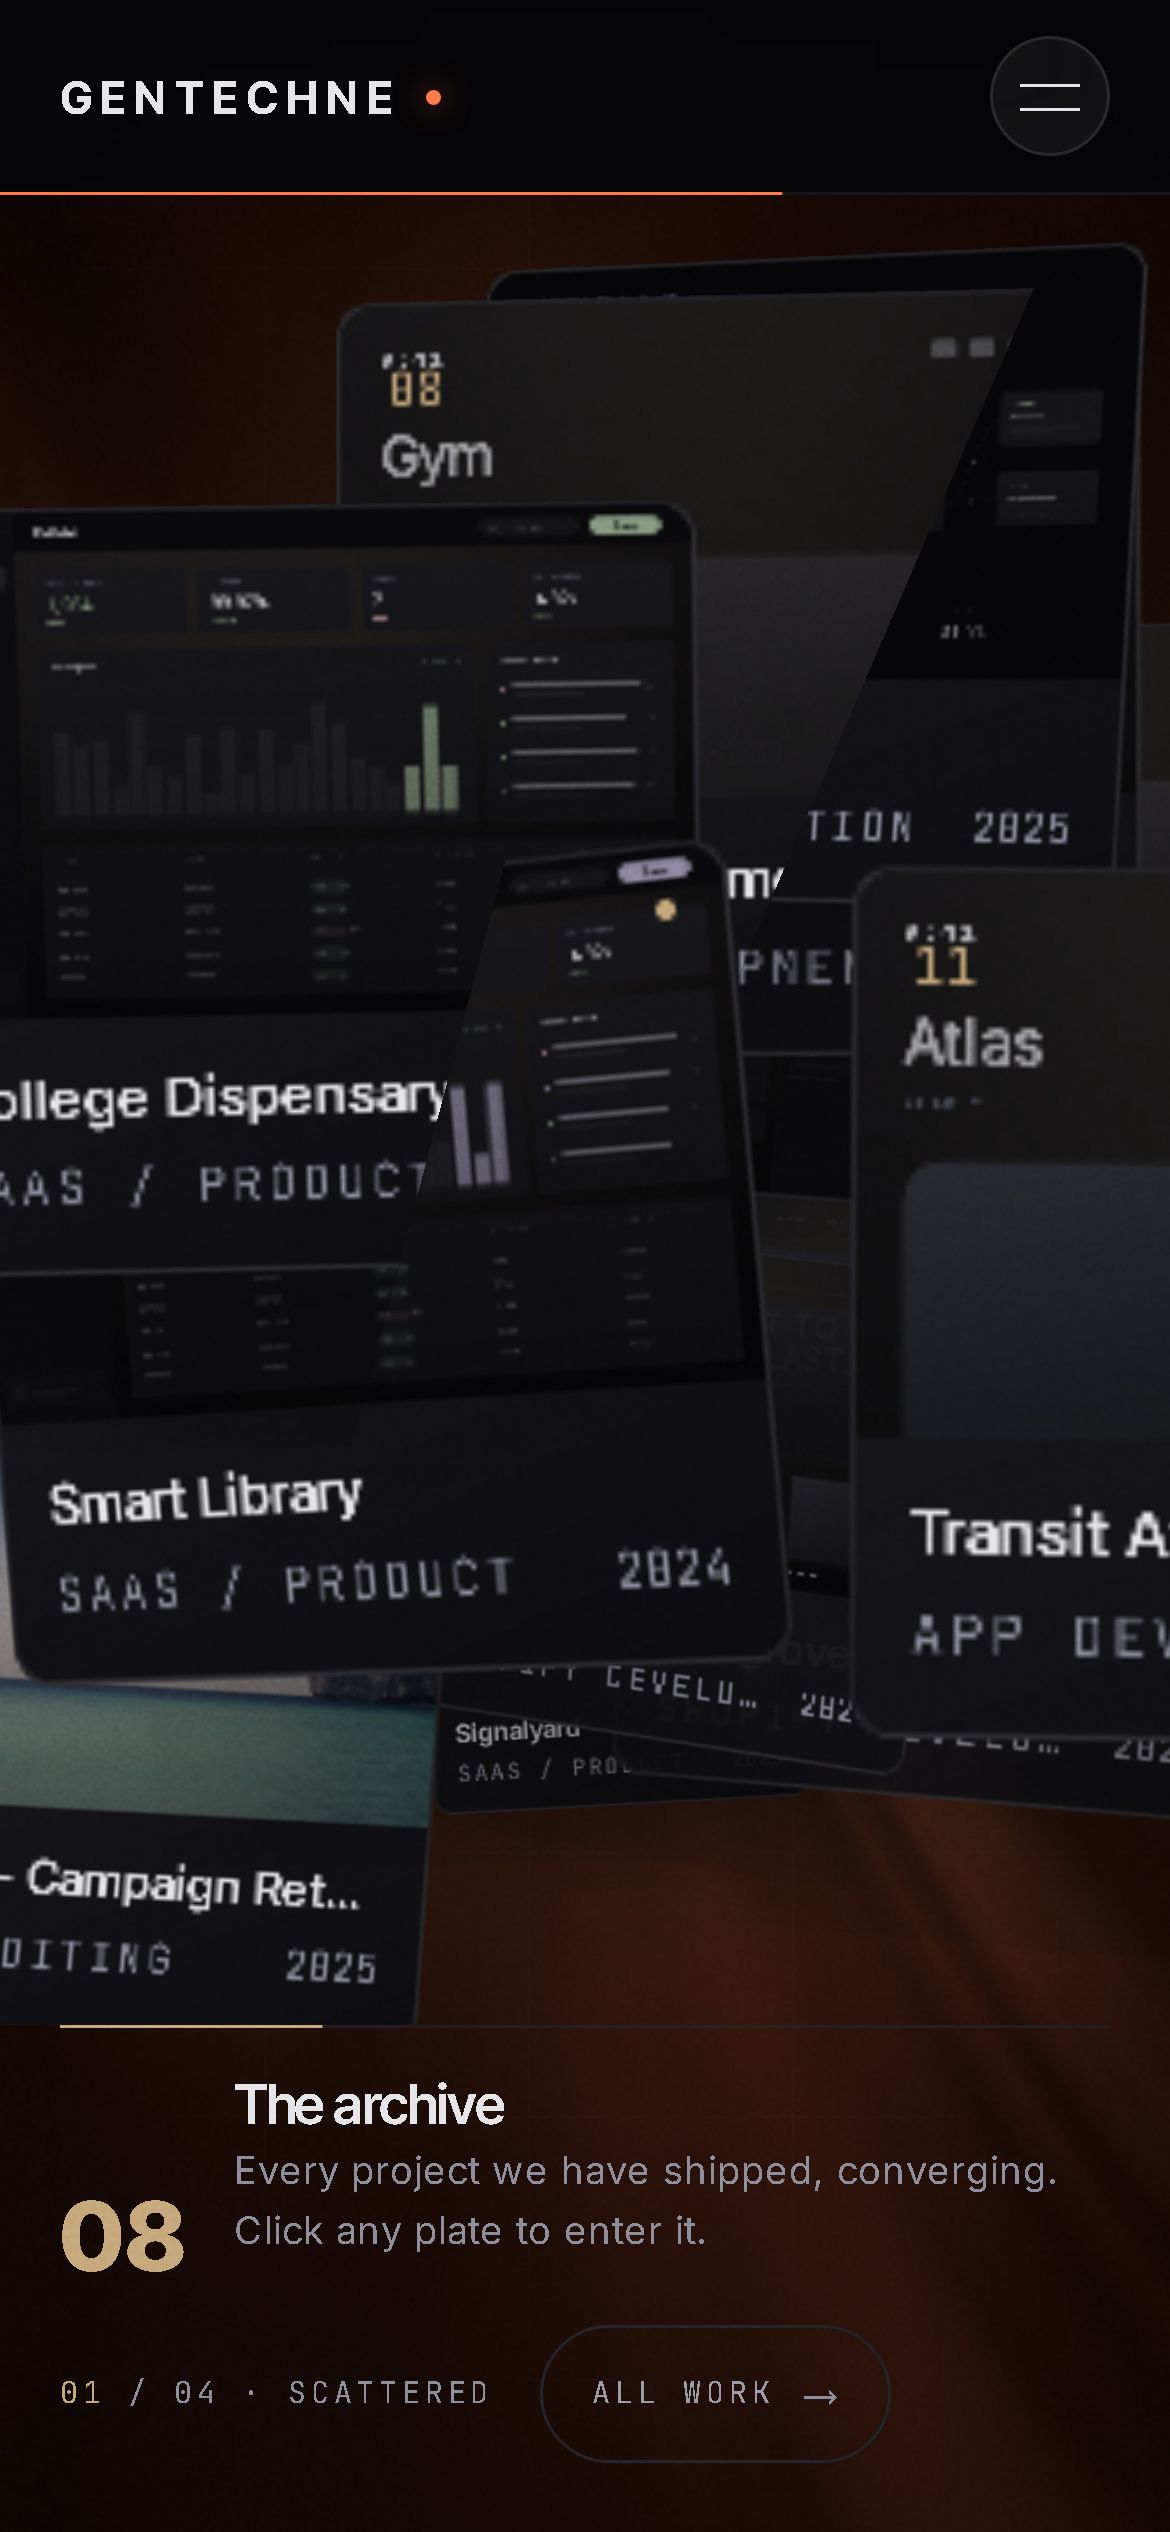
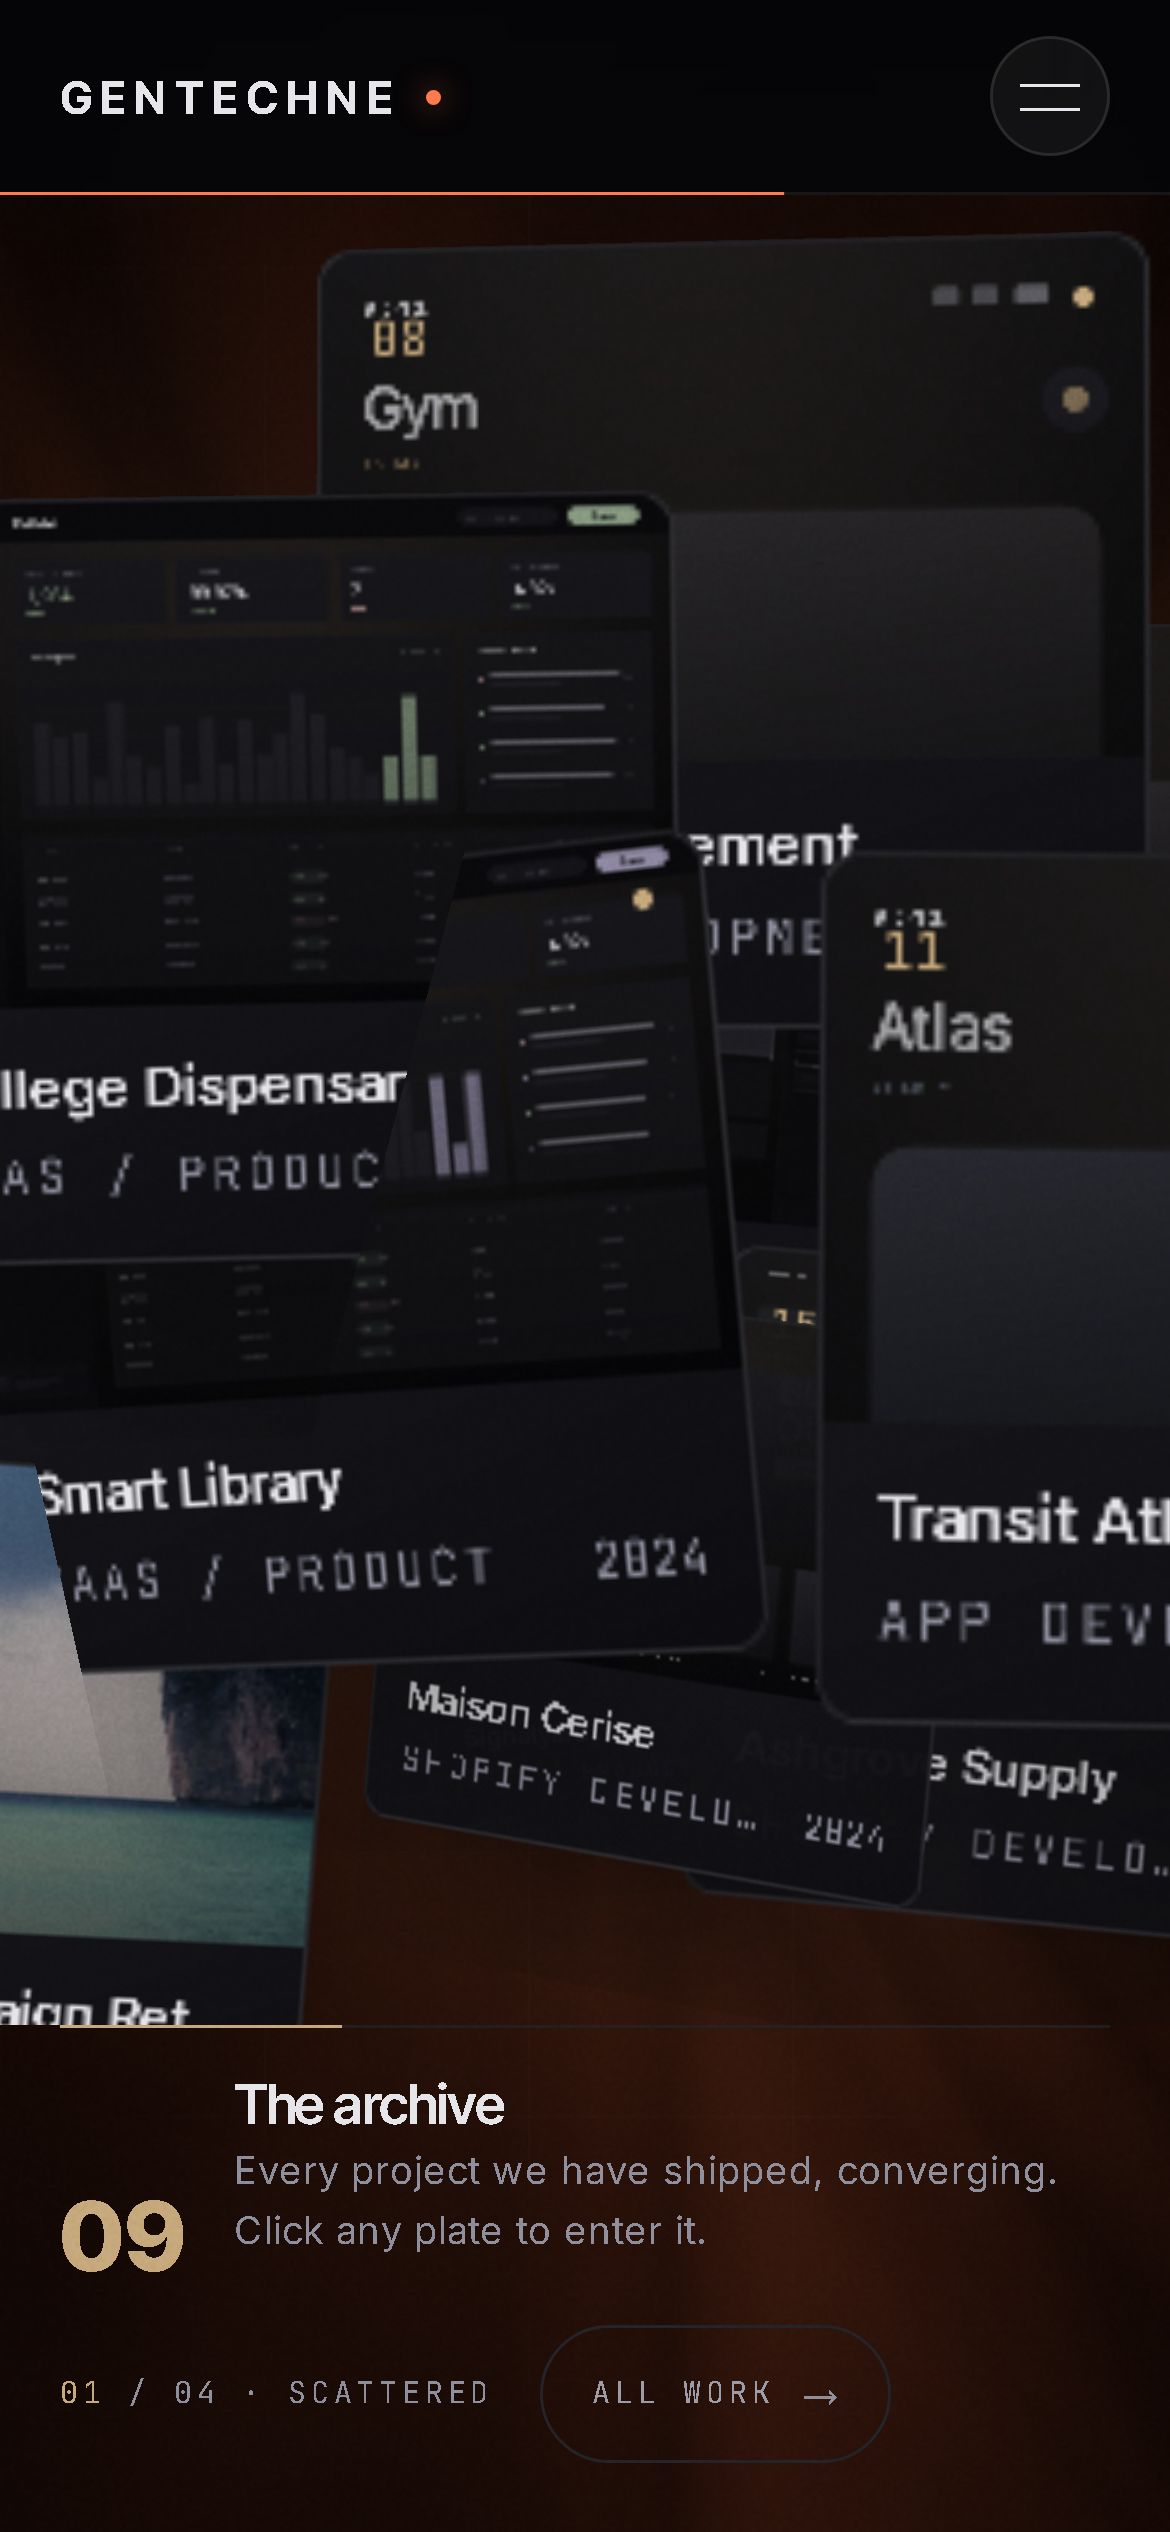
all done

diff --git a/frontend/src/components/showcases/SaaSShowcase.jsx b/frontend/src/components/showcases/SaaSShowcase.jsx
@@ -6,6 +6,7 @@ import { ProjectTag, StaticShowcase } from './ui/ShowcaseParts'
 import { getService } from '../../data/services'
 import { projectsByService } from '../../data/projects'
 import { useProjectEntry } from '../projects/ProjectEntryContext'
+import { useExperience } from '../../context/ExperienceContext'
 import { seeded } from '../../lib/utils'
 
 const service = getService('saas')
@@ -180,20 +181,25 @@ export function SaaSShowcase() {
       )
   }, [])
 
-  const tableRows = [
+  const { isMobile } = useExperience()
+
+  const ALL_ROWS = [
     ['UNIT-1842', 'EU-WEST', 'ONLINE', '24ms'],
     ['UNIT-2207', 'US-EAST', 'ONLINE', '38ms'],
     ['UNIT-0914', 'AP-SOUTH', 'DEGRADED', '182ms'],
     ['UNIT-3361', 'EU-NORTH', 'ONLINE', '19ms'],
     ['UNIT-1178', 'US-WEST', 'ONLINE', '46ms'],
   ]
+  /* The phone stage cannot seat all five. The first three still carry the
+     point — units being watched, one of them degraded — and the two that only
+     repeat ONLINE are the cheapest thing in the panel to give up. */
+  const tableRows = isMobile ? ALL_ROWS.slice(0, 3) : ALL_ROWS
 
   return (
     <ShowcaseFrame
       service={service}
       id={service.sectionId}
       beats={5}
-      mobileZoom={0.84}
       build={build}
       fallback={<StaticShowcase project={project} service={service} />}
     >
@@ -204,15 +210,15 @@ export function SaaSShowcase() {
         style={{ background: `radial-gradient(ellipse, ${service.accent}22 0%, rgba(5,5,7,0) 70%)` }}
       />
 
-      <div className="relative z-10 flex flex-col items-center gap-6 preserve-3d">
+      <div className="relative z-10 flex flex-col items-center gap-3 preserve-3d md:gap-6">
         <div ref={dashRef} className="relative preserve-3d will-change-transform">
           <PanelFrame label="SIGNALYARD — FLEET OBSERVABILITY" accent={service.accent} className="w-[min(92vw,880px)]">
-            <div className="relative p-3 md:p-5">
+            <div className="relative p-2 md:p-5">
               {/* Stat row */}
-              <div data-saas-recede className="mb-3 grid grid-cols-2 gap-2 md:mb-4 md:grid-cols-4 md:gap-3">
+              <div data-saas-recede className="mb-1.5 grid grid-cols-2 gap-1.5 md:mb-4 md:grid-cols-4 md:gap-3">
                 {STATS.map((s) => (
-                  <div key={s.key} className="surface rounded-md p-2.5 md:p-3.5">
-                    <span className="block font-mono text-[7px] max-md:text-[12px] uppercase tracking-[0.15em] text-mist md:text-[8px]">
+                  <div key={s.key} className="surface rounded-md p-2 md:p-3.5">
+                    <span className="block font-mono text-[7px] max-md:text-[10px] uppercase tracking-[0.15em] text-mist md:text-[8px]">
                       {s.label}
                     </span>
                     <span
@@ -226,7 +232,7 @@ export function SaaSShowcase() {
                       0
                     </span>
                     <span
-                      className="mt-1 block font-mono text-[7.5px] max-md:text-[12px] md:text-[8.5px]"
+                      className="mt-1 block font-mono text-[7.5px] max-md:text-[10px] md:text-[8.5px]"
                       style={{ color: s.delta.startsWith('-') ? '#C8A0A0' : '#A8C0A0' }}
                     >
                       {s.delta}
@@ -235,23 +241,23 @@ export function SaaSShowcase() {
                 ))}
               </div>
 
-              <div className="grid gap-2 md:grid-cols-3 md:gap-3">
+              <div className="grid gap-1.5 md:grid-cols-3 md:gap-3">
                 {/* Main chart */}
-                <div data-saas-recede className="surface col-span-2 rounded-md p-2.5 md:p-3.5">
+                <div data-saas-recede className="surface col-span-2 rounded-md p-2 md:p-3.5">
                   <div className="mb-2 flex items-center justify-between">
                     <span className="font-display text-[10px] font-semibold text-silver md:text-[12px]">
                       Throughput
                     </span>
                     <span className="flex items-center gap-1.5">
                       <span className="h-1 w-1 rounded-full bg-[#A8C0A0] anim-pulse" />
-                      <span className="font-mono text-[7px] max-md:text-[12px] uppercase tracking-[0.14em] text-mist md:text-[8px]">
+                      <span className="font-mono text-[7px] max-md:text-[10px] uppercase tracking-[0.14em] text-mist md:text-[8px]">
                         REALTIME
                       </span>
                     </span>
                   </div>
                   <svg
                     viewBox={`0 0 ${series.W} ${series.H}`}
-                    className="h-20 w-full md:h-28"
+                    className="h-[3.75rem] w-full md:h-28"
                     preserveAspectRatio="none"
                     aria-hidden="true"
                   >
@@ -302,11 +308,11 @@ export function SaaSShowcase() {
                 </div>
 
                 {/* Distribution + feed */}
-                <div data-saas-recede className="surface flex flex-col rounded-md p-2.5 md:p-3.5">
+                <div data-saas-recede className="surface flex flex-col rounded-md p-2 md:p-3.5">
                   <span className="mb-2 font-display text-[10px] font-semibold text-silver md:text-[12px]">
                     Distribution
                   </span>
-                  <div className="relative mx-auto h-16 w-16 md:h-20 md:w-20">
+                  <div className="relative mx-auto h-14 w-14 md:h-20 md:w-20">
                     <svg viewBox="0 0 240 240" className="h-full w-full -rotate-90" aria-hidden="true">
                       <circle cx="120" cy="120" r="110" fill="none" stroke="#232329" strokeWidth="22" />
                       <circle
@@ -321,7 +327,7 @@ export function SaaSShowcase() {
                         strokeLinecap="round"
                       />
                     </svg>
-                    <span className="absolute inset-0 grid place-items-center font-mono text-[9px] max-md:text-[12px] text-bone md:text-[11px]">
+                    <span className="absolute inset-0 grid place-items-center font-mono text-[9px] max-md:text-[10px] text-bone md:text-[11px]">
                       68%
                     </span>
                   </div>
@@ -332,10 +338,10 @@ export function SaaSShowcase() {
                           className="h-1.5 w-1.5 rounded-full"
                           style={{ backgroundColor: [service.accent, '#C8A0A0', '#35353E'][i] }}
                         />
-                        <span className="font-mono text-[7.5px] max-md:text-[12px] uppercase tracking-[0.12em] text-mist md:text-[8.5px]">
+                        <span className="font-mono text-[7.5px] max-md:text-[10px] uppercase tracking-[0.12em] text-mist md:text-[8.5px]">
                           {t}
                         </span>
-                        <span className="ml-auto font-mono text-[8px] max-md:text-[12px] tabular-nums text-silver md:text-[9px]">
+                        <span className="ml-auto font-mono text-[8px] max-md:text-[10px] tabular-nums text-silver md:text-[9px]">
                           {['68%', '24%', '8%'][i]}
                         </span>
                       </li>
@@ -345,10 +351,10 @@ export function SaaSShowcase() {
               </div>
 
               {/* Table */}
-              <div data-saas-recede className="surface mt-2 overflow-hidden rounded-md md:mt-3">
+              <div data-saas-recede className="surface mt-1 overflow-hidden rounded-md md:mt-3">
                 <div className="grid grid-cols-4 gap-2 border-b border-smoke/70 px-2.5 py-1.5 md:px-3.5 md:py-2">
                   {['UNIT', 'REGION', 'STATUS', 'LATENCY'].map((h) => (
-                    <span key={h} className="font-mono text-[6.5px] max-md:text-[12px] uppercase tracking-[0.14em] text-mist md:text-[7.5px]">
+                    <span key={h} className="font-mono text-[6.5px] max-md:text-[10px] uppercase tracking-[0.14em] text-mist md:text-[7.5px]">
                       {h}
                     </span>
                   ))}
@@ -359,10 +365,10 @@ export function SaaSShowcase() {
                     ref={(el) => setRow(el, i)}
                     className="grid grid-cols-4 items-center gap-2 border-b border-smoke/40 px-2.5 py-1.5 last:border-0 will-change-transform md:px-3.5 md:py-2"
                   >
-                    <span className="font-mono text-[7.5px] max-md:text-[12px] text-silver md:text-[9px]">{r[0]}</span>
-                    <span className="font-mono text-[7.5px] max-md:text-[12px] text-mist md:text-[9px]">{r[1]}</span>
+                    <span className="font-mono text-[7.5px] max-md:text-[10px] text-silver md:text-[9px]">{r[0]}</span>
+                    <span className="font-mono text-[7.5px] max-md:text-[10px] text-mist md:text-[9px]">{r[1]}</span>
                     <span
-                      className="w-fit rounded-full px-1.5 py-0.5 font-mono text-[6.5px] max-md:text-[12px] tracking-[0.1em] md:text-[7.5px]"
+                      className="w-fit rounded-full px-1.5 py-0.5 font-mono text-[6.5px] max-md:text-[10px] tracking-[0.1em] md:text-[7.5px]"
                       style={{
                         color: r[2] === 'ONLINE' ? '#A8C0A0' : '#C8A0A0',
                         backgroundColor: r[2] === 'ONLINE' ? 'rgba(168,192,160,0.14)' : 'rgba(200,160,160,0.16)',
@@ -370,7 +376,7 @@ export function SaaSShowcase() {
                     >
                       {r[2]}
                     </span>
-                    <span className="font-mono text-[7.5px] max-md:text-[12px] tabular-nums text-silver md:text-[9px]">{r[3]}</span>
+                    <span className="font-mono text-[7.5px] max-md:text-[10px] tabular-nums text-silver md:text-[9px]">{r[3]}</span>
                   </div>
                 ))}
               </div>
@@ -386,10 +392,10 @@ export function SaaSShowcase() {
                 }}
               >
                 <div data-saas-focus-row className="flex items-center justify-between">
-                  <span className="font-mono text-[8px] max-md:text-[12px] uppercase tracking-[0.16em]" style={{ color: service.accent }}>
+                  <span className="font-mono text-[8px] max-md:text-[10px] uppercase tracking-[0.16em]" style={{ color: service.accent }}>
                     UNIT-0914 / AP-SOUTH
                   </span>
-                  <span className="font-mono text-[8px] max-md:text-[12px] uppercase tracking-[0.14em] text-[#C8A0A0]">
+                  <span className="font-mono text-[8px] max-md:text-[10px] uppercase tracking-[0.14em] text-[#C8A0A0]">
                     ● DEGRADED
                   </span>
                 </div>
@@ -404,7 +410,7 @@ export function SaaSShowcase() {
                     ['LAST SEEN', '3s'],
                   ].map(([k, v]) => (
                     <div key={k} className="rounded border border-smoke/70 p-2 md:p-2.5">
-                      <span className="block font-mono text-[6.5px] max-md:text-[12px] uppercase tracking-[0.14em] text-mist md:text-[7.5px]">
+                      <span className="block font-mono text-[6.5px] max-md:text-[10px] uppercase tracking-[0.14em] text-mist md:text-[7.5px]">
                         {k}
                       </span>
                       <span className="mt-1 block font-display text-sm font-bold tabular-nums text-bone md:text-lg">
@@ -439,7 +445,7 @@ export function SaaSShowcase() {
                   {project.technologies.slice(0, 4).map((t) => (
                     <span
                       key={t}
-                      className="rounded-full border border-smoke px-2.5 py-1 font-mono text-[7.5px] max-md:text-[12px] uppercase tracking-[0.12em] text-silver md:text-[8.5px]"
+                      className="rounded-full border border-smoke px-2.5 py-1 font-mono text-[7.5px] max-md:text-[10px] uppercase tracking-[0.12em] text-silver md:text-[8.5px]"
                     >
                       {t}
                     </span>

diff --git a/frontend/src/components/showcases/ShowcaseFrame.jsx b/frontend/src/components/showcases/ShowcaseFrame.jsx
@@ -26,7 +26,6 @@ export function ShowcaseFrame({
   chromeSide = 'left',
   stageClassName,
   fallback,
-  mobileZoom = 1,
 }) {
   const rootRef = useRef(null)
   const stageRef = useRef(null)
@@ -166,39 +165,7 @@ export function ShowcaseFrame({
           className="relative flex flex-1 items-center justify-center overflow-hidden perspective-far"
           style={{ paddingTop: 'calc(var(--nav-h) + 0.75rem)' }}
         >
-          {/*
-            MOBILE ZOOM.
-            The device mockups carry deliberately tiny type — a phone status bar
-            at 7px, a dashboard legend at 6.5px. On a 390px screen that is below
-            what anyone can read, and the four worlds were measured leaving
-            260px, 62px, -18px and 397px of unused stage height respectively.
-
-            Raising ~60 individual font sizes was the alternative, and it is the
-            wrong one: these mocks are dense, clipped boxes, so a 6.5px legend
-            forced to 10px wraps or gets cut, and the miniature-UI illusion that
-            makes them read as real software breaks. Zooming the whole
-            composition scales every internal proportion by the same factor, so
-            the mock still looks like a device — it is just closer.
-
-            `zoom` rather than `transform: scale()`: a transform would create a
-            new containing block and flatten the 3D context the worlds animate
-            in. The inverse width/height keeps the zoomed box filling exactly
-            the same visual area as the stage.
-          */}
-          {isMobile && mobileZoom !== 1 ? (
-            <div
-              className="relative preserve-3d"
-              style={{
-                zoom: mobileZoom,
-                width: `${100 / mobileZoom}%`,
-                height: `${100 / mobileZoom}%`,
-              }}
-            >
-              {children}
-            </div>
-          ) : (
-            children
-          )}
+          {children}
         </div>
 
         {/* Chrome */}

diff --git a/frontend/src/components/showcases/WebShowcase.jsx b/frontend/src/components/showcases/WebShowcase.jsx
@@ -203,7 +203,6 @@ export function WebShowcase() {
       service={service}
       id={service.sectionId}
       beats={5}
-      mobileZoom={1}
       chromeSide="right"
       build={build}
       fallback={<StaticShowcase project={project} service={service} />}

diff --git a/frontend/src/components/showcases/AppShowcase.jsx b/frontend/src/components/showcases/AppShowcase.jsx
@@ -237,7 +237,6 @@ export function AppShowcase() {
       service={service}
       id={service.sectionId}
       beats={5}
-      mobileZoom={1}
       build={build}
       fallback={<StaticShowcase project={project} service={service} aspect="phone" />}
     >
